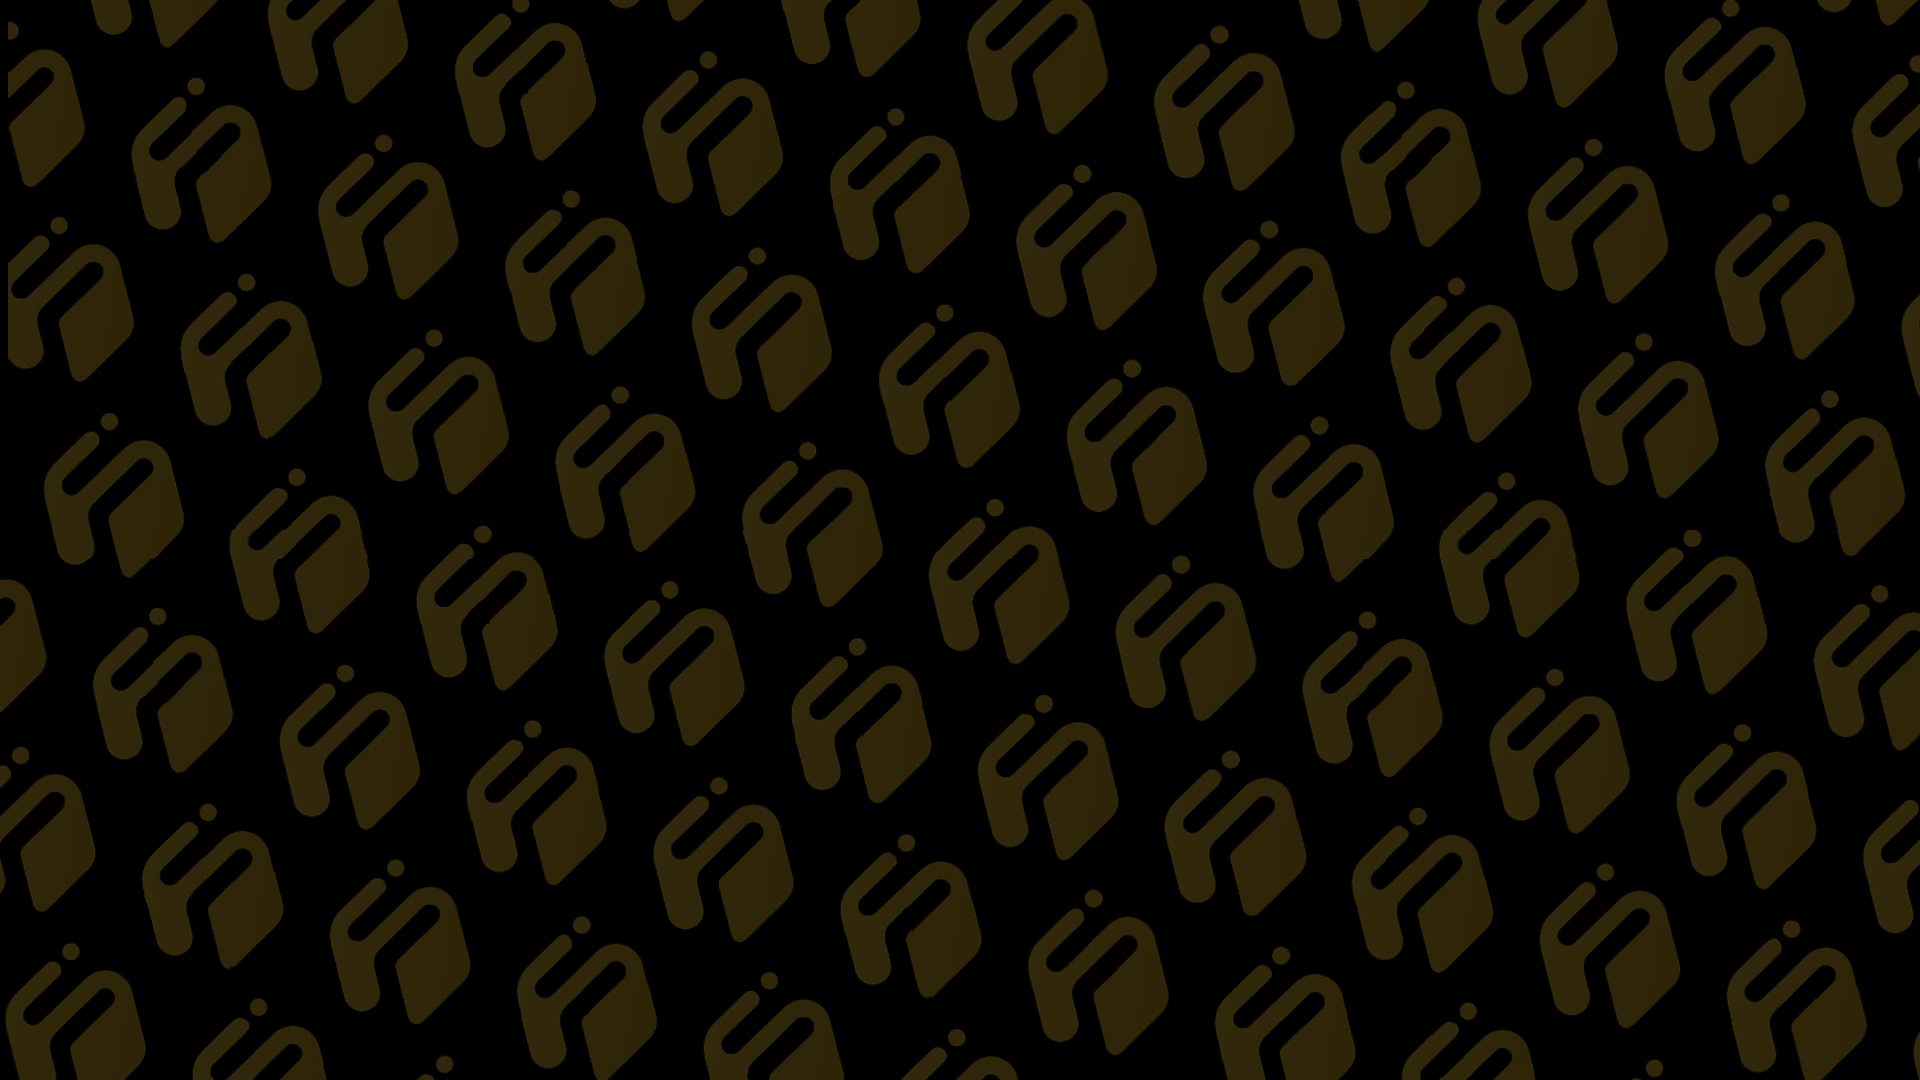
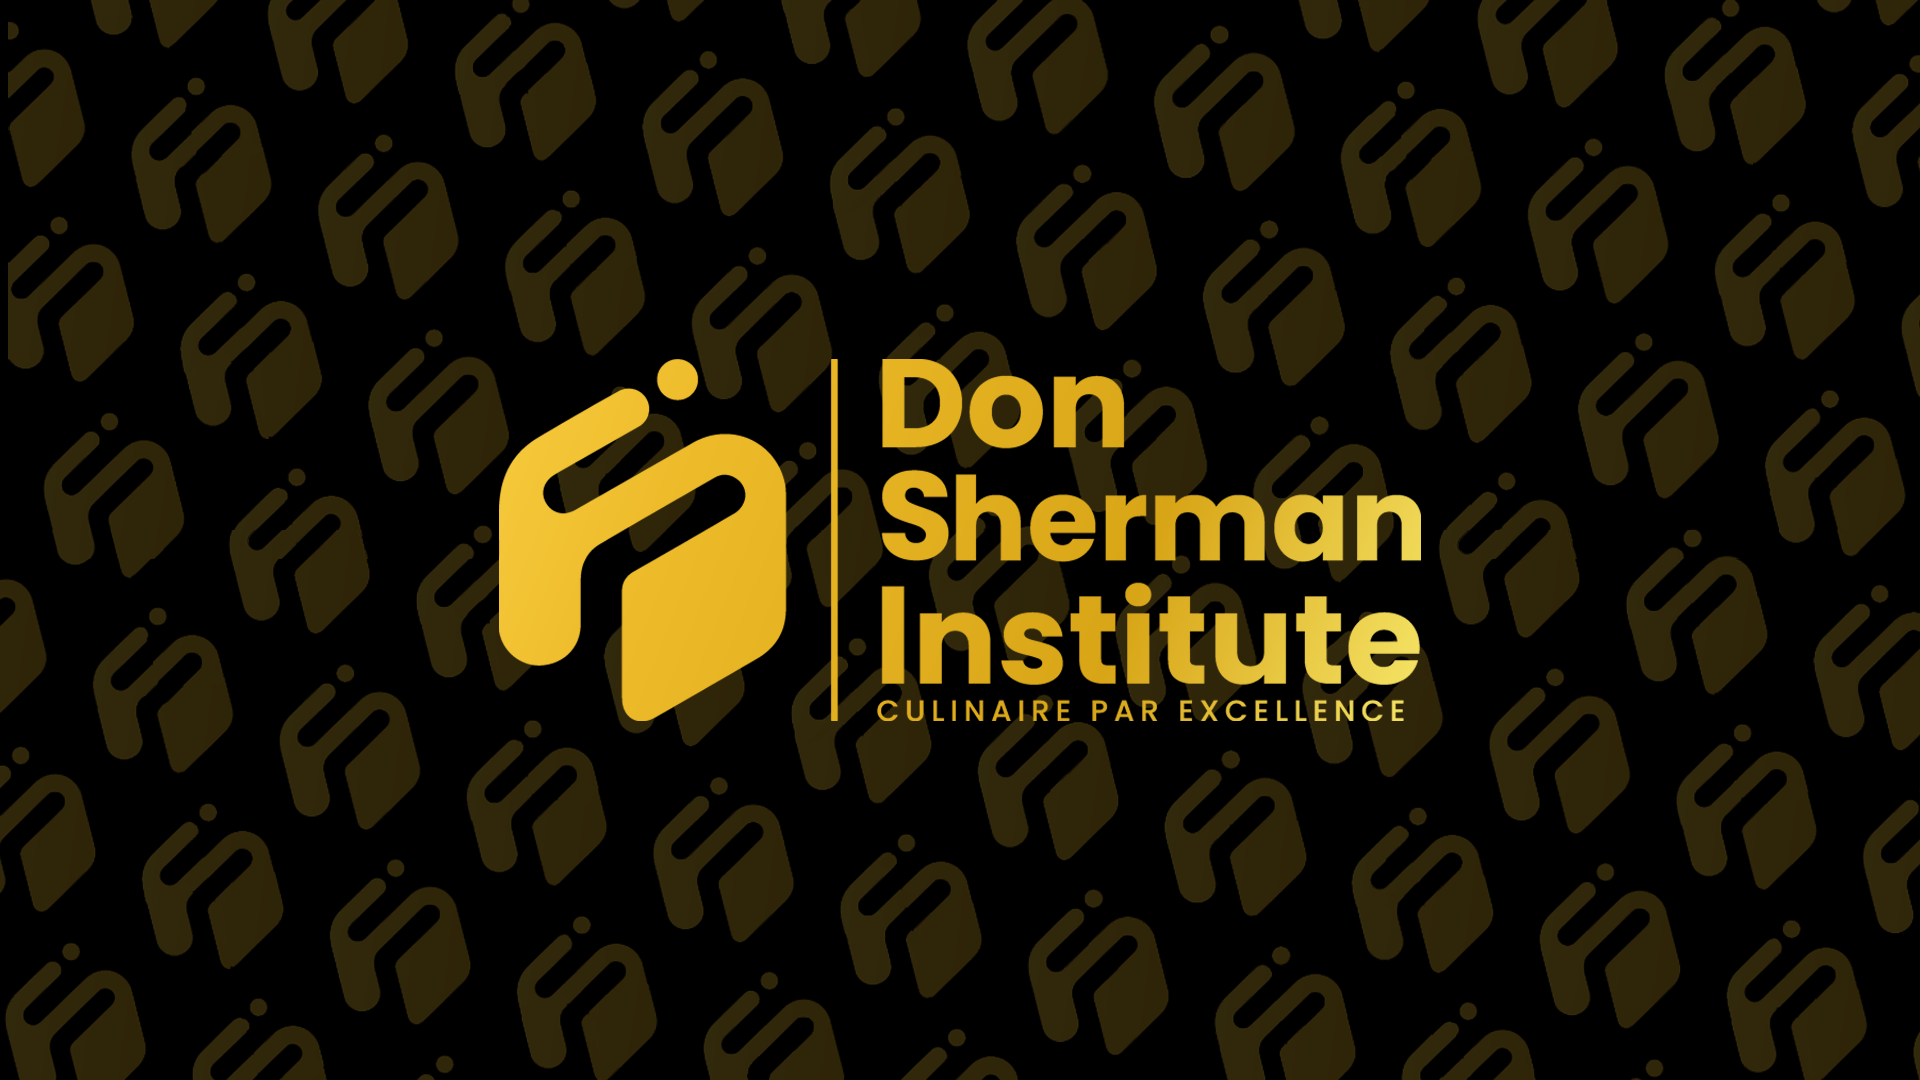
don up1

Changed region(s): [[0.25, 0.3361, 0.75, 0.6722]]

diff --git a/templates/amywijesiri.php b/templates/amywijesiri.php
@@ -185,8 +185,8 @@
     <div class="d-flex justify-content-center mt-5">
         <div class="card custom-card shadow-lg" style="background-color:rgb(0, 0, 0);">
             <div class="card-header custom-header text-center"
-                style="background-image: url('banner_img/client_banner/donsherman-b.png'); height: 200px; opacity: 1;">
-                <img src="logo_img/client_logo/donsherman-l.png" alt="Company Logo" class="custom-logo" height="80px">
+                style="background-image: url('banner_img/client_banner/donsherman-b.png'); height: 260px; opacity: 1;">
+                <!-- <img src="logo_img/client_logo/donsherman-l.png" alt="Company Logo" class="custom-logo" height="80px"> -->
                 <div class="profile-picture">
                     <img src="profile_img/client_profile/amywijesiri-p.png" alt="Saliya Pathum" class="rounded-circle" style="margin-top: 15px;">
                 </div>

diff --git a/templates/donsherman.php b/templates/donsherman.php
@@ -185,8 +185,8 @@
     <div class="d-flex justify-content-center mt-5">
         <div class="card custom-card shadow-lg" style="background-color:rgb(0, 0, 0);">
             <div class="card-header custom-header text-center"
-                style="background-image: url('banner_img/client_banner/donsherman-b.png'); height: 200px; opacity: 1;">
-                <img src="logo_img/client_logo/donsherman-l.png" alt="Company Logo" class="custom-logo" height="80px">
+                style="background-image: url('banner_img/client_banner/donsherman-b.png'); height: 260px; opacity: 1;">
+                <!-- <img src="logo_img/client_logo/donsherman-l.png" alt="Company Logo" class="custom-logo" height="80px"> -->
                 <div class="profile-picture">
                     <img src="profile_img/client_profile/donsherman-p.png" alt="Saliya Pathum" class="rounded-circle" style="margin-top: 15px;">
                 </div>
